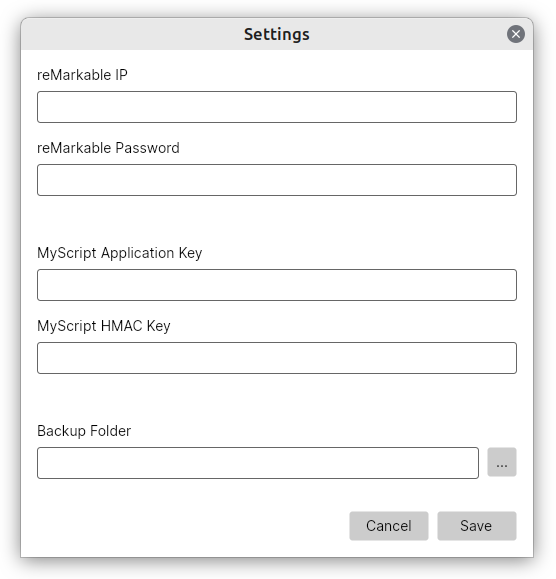
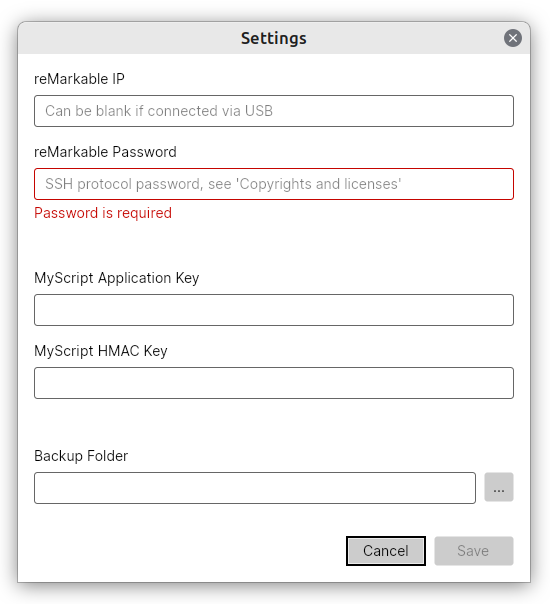
Updates settings dialog screen shot and watermark info

Changed region(s): [[0.0309, 0.0311, 0.9891, 0.9637], [0.6182, 0.8705, 0.9273, 0.9637], [0.4327, 0.0311, 0.5564, 0.0933]]

diff --git a/README.md b/README.md
@@ -21,7 +21,7 @@ The application is available for Windows, Linux, and OSX. Executables are availa
 
 ## Settings
 
-For the initial setup, enter your reMarkable SSH protocol information. You find the information at the bottom of the Copyrights notices and software licenses page. Navigate to `Menu` > `Settings` > `General` > `Help` > `About` > `Copyrights and licenses`. If you connect your reMarkable tablet via USB, the IP can be blank, only the password is needed.
+For the initial setup, enter your reMarkable SSH protocol information. You find the information at the bottom of the Copyrights notices and software licenses page. Navigate to `Menu` > `Settings` > `General` > `Help` > `About` > `Copyrights and licenses`. If you connect your reMarkable tablet via USB, the IP can be blank, only the password is required.
 
 You need a [MyScript](https://developer.myscript.com/getting-started/web) account for hand writing recognition. Register to receive your keys and enter your keys.
 
